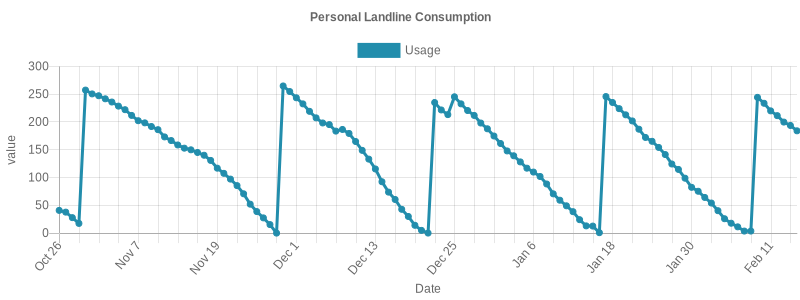
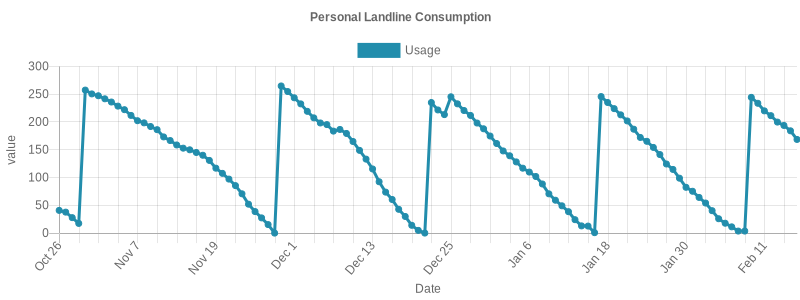
update logs

diff --git a/quota-logs/README.md b/quota-logs/README.md
@@ -111,3 +111,4 @@
 ## Tue Feb 13 2024 00:36:39 GMT+0200|199.8/250
 ## Wed Feb 14 2024 00:34:38 GMT+0200|193.74/250
 ## Thu Feb 15 2024 00:35:12 GMT+0200|184.08/250
+## Fri Feb 16 2024 00:34:44 GMT+0200|168.56/250
